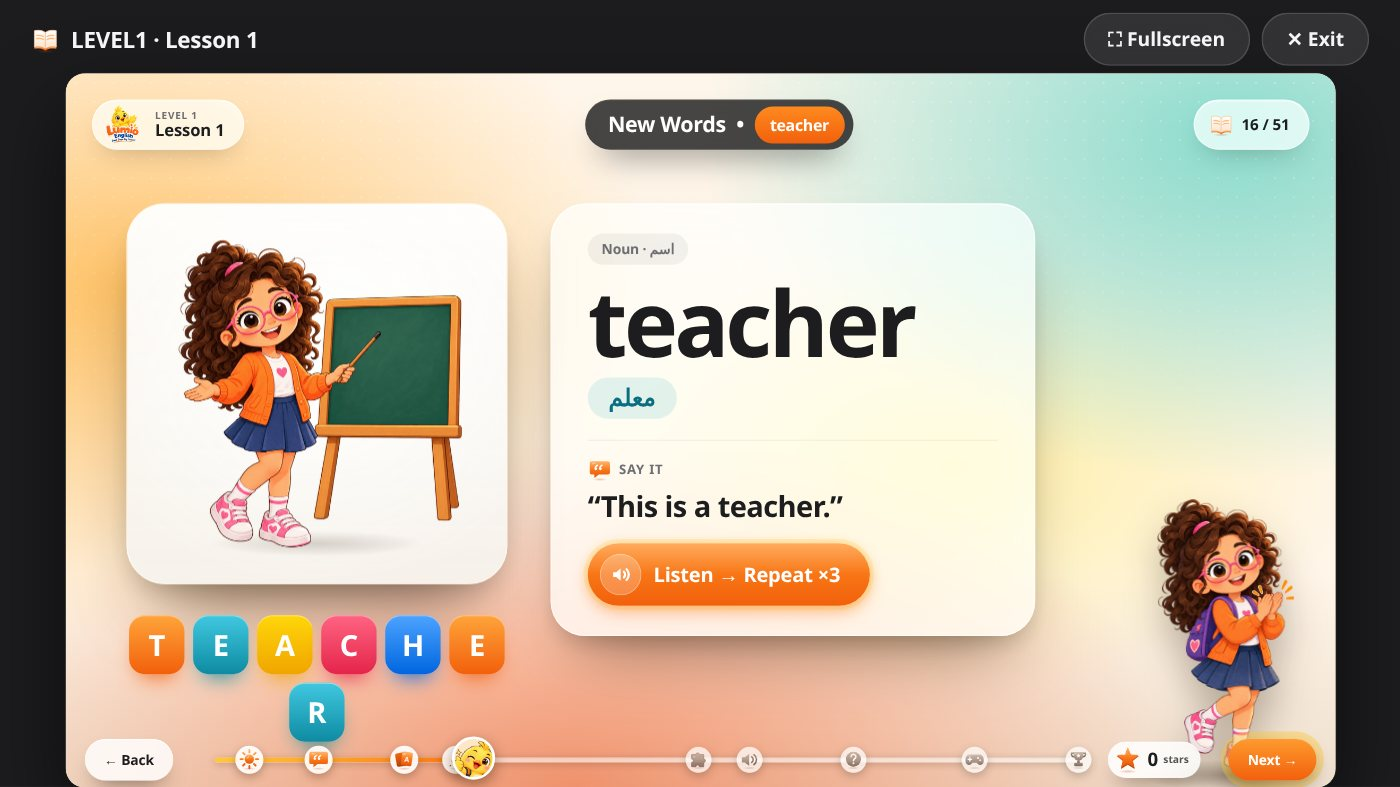
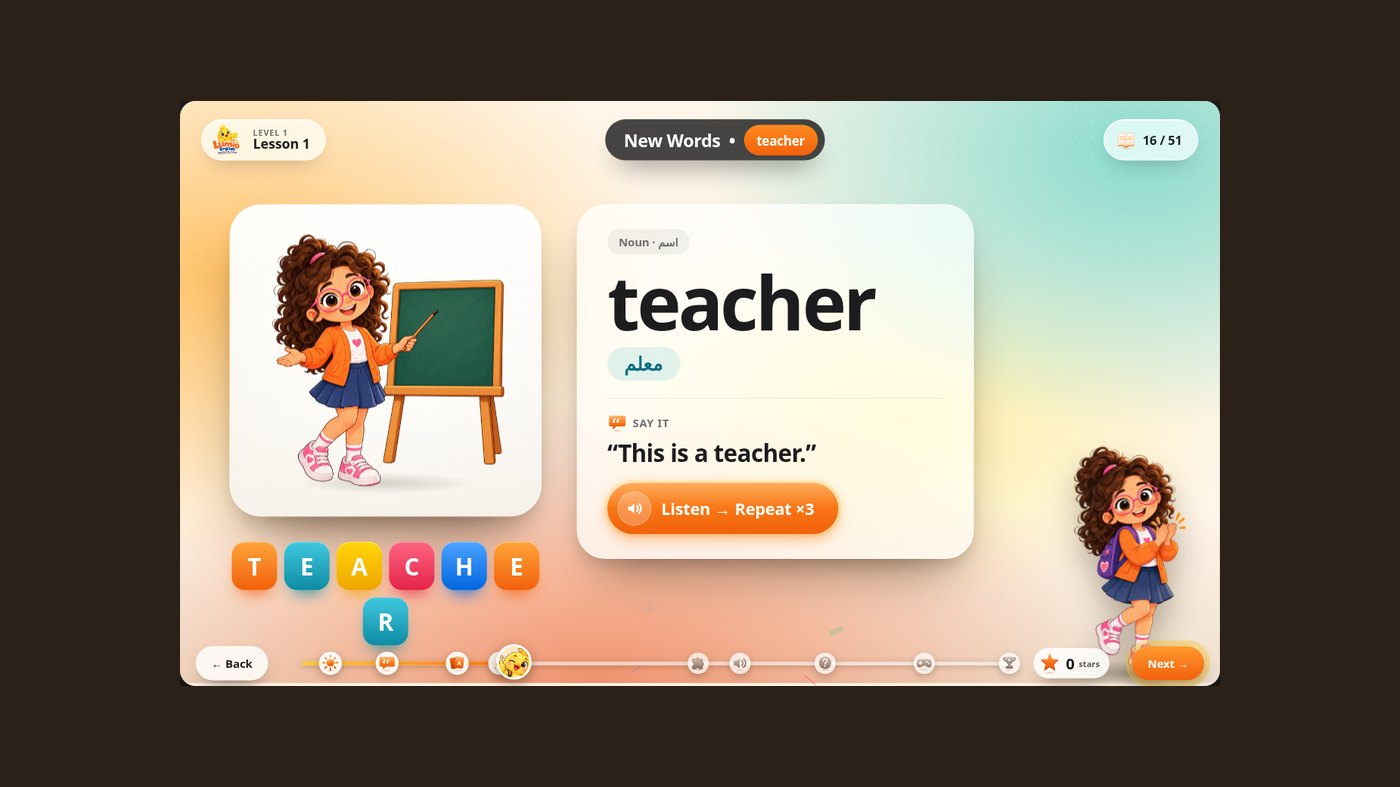
Landing: class picture fits its frame (slide centred on a dark screen); Arabic 'المعلم' label no longer hidden behind Lumi
Claude-Session: https://claude.ai/code/session_01LMdMxXWWLygq3V4THqsfVp

diff --git a/css/site.css b/css/site.css
@@ -152,7 +152,7 @@ header.nav.light{background:rgba(251,247,240,.86);backdrop-filter:blur(14px);col
 .zoom .ppl{display:grid;grid-template-rows:repeat(4,minmax(0,1fr));gap:8px;min-height:0}
 .zoom .ppl div{border-radius:10px;background:#1C1C1C;position:relative;overflow:hidden;min-height:0}
 .zoom .ppl img{position:absolute;left:50%;bottom:-30%;height:125%;width:auto;max-width:none;transform:translateX(-50%)}
-.zoom .ppl span{position:absolute;left:6px;top:5px;font-size:10px;font-weight:800;color:var(--cream2)}
+.zoom .ppl span{position:absolute;left:6px;top:5px;z-index:1;font-size:10px;font-weight:800;color:var(--cream2)}   /* above the character picture */
 .zoom .ppl .live{outline:2px solid var(--teal)}
 .progress{position:absolute;right:24px;top:50%;transform:translateY(-50%);display:flex;flex-direction:column;gap:12px;z-index:3}
 .progress i{width:4px;height:34px;border-radius:4px;background:rgba(255,255,255,.15);overflow:hidden;position:relative}
@@ -448,6 +448,7 @@ html[dir="rtl"] .hero .veil{background:linear-gradient(270deg,rgba(255,255,255,.
 html[dir="rtl"] .hero .copy{align-self:flex-start}
 html[dir="rtl"] .hero .lumi{right:auto;left:clamp(10px,6vw,90px)}
 html[dir="rtl"] .progress{right:auto;left:24px}
+html[dir="rtl"] .zoom .ppl span{left:auto;right:6px}
 html[dir="rtl"] .hubdev .float{right:auto;left:-18px}
 html[dir="rtl"] .hitem:hover{translate:-6px 0}
 html[dir="rtl"] .stab{text-align:right}
